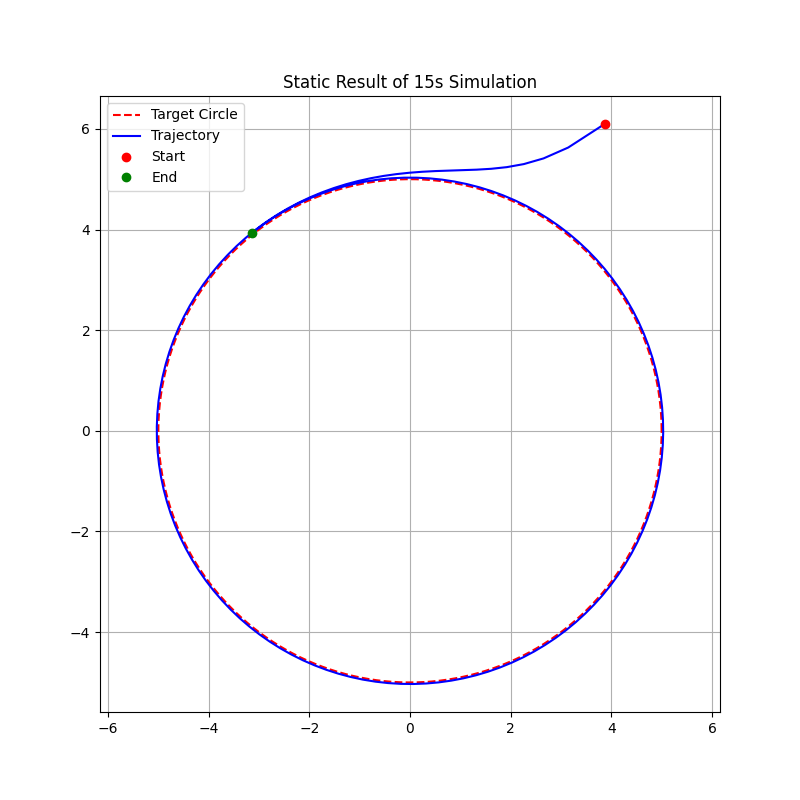
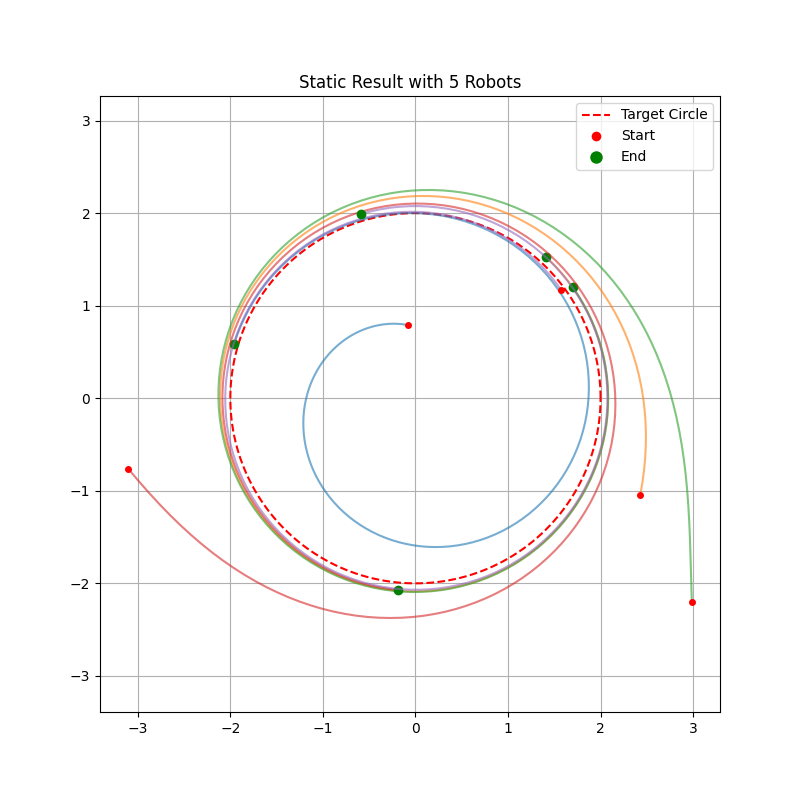
init

diff --git a/robot_sim.py b/robot_sim.py
@@ -12,32 +12,32 @@ k1 = 0.02
 k2 = 0.5
 
 # Simulation parameters
+N_ROBOTS = 5
 dt = 0.1
 total_time = 15
 num_steps = int(total_time / dt)
 
-# Initial position (random)
-# Random point in [-2R, 2R]
-x = (np.random.rand() - 0.5) * 4 * R
-y = (np.random.rand() - 0.5) * 4 * R
-pos = np.array([x, y])
+# Initial positions (random)
+# Random points in [-2R, 2R]
+pos = (np.random.rand(N_ROBOTS, 2) - 0.5) * 4 * R
 
-# History for plotting trajectory
+# History for plotting trajectory: shape (steps, N_ROBOTS, 2)
 history = [pos.copy()]
 
 def get_velocity(p):
-    px, py = p[0], p[1]
+    px, py = p[:, 0], p[:, 1]
     # e = (x-xc)^2 + (y-yc)^2 - R^2
     e = (px - xc)**2 + (py - yc)**2 - R2
     
     # n = gradient of (x-xc)^2 + (y-yc)^2 - R^2 = [2(x-xc), 2(y-yc)]
-    n = np.array([2 * (px - xc), 2 * (py - yc)])
+    n = np.column_stack([2 * (px - xc), 2 * (py - yc)])
     
     # t = (-y, x) relative to center
-    t = np.array([-(py - yc), (px - xc)])
+    t = np.column_stack([-(py - yc), (px - xc)])
     
     # v = -k1*e*n + k2*t
-    v = -k1 * e * n + k2 * t
+    # e[:, np.newaxis] to multiply each row of n by the corresponding error
+    v = -k1 * e[:, np.newaxis] * n + k2 * t
     return v
 
 # Pre-calculate simulation
@@ -54,7 +54,7 @@ ax.set_aspect('equal')
 ax.grid(True, linestyle='--', alpha=0.6)
 ax.set_xlim(-2.5*R, 2.5*R)
 ax.set_ylim(-2.5*R, 2.5*R)
-ax.set_title("Robot Circular Path Tracking Simulation")
+ax.set_title(f"Simulation with {N_ROBOTS} Robots")
 ax.set_xlabel("X")
 ax.set_ylabel("Y")
 
@@ -62,27 +62,29 @@ ax.set_ylabel("Y")
 circle_angles = np.linspace(0, 2*np.pi, 200)
 ax.plot(xc + R * np.cos(circle_angles), yc + R * np.sin(circle_angles), 'r--', label='Target Circle', alpha=0.5)
 
-# Robot and Trayectory plots
-line, = ax.plot([], [], 'b-', lw=1, alpha=0.7, label='Trajectory')
-robot_dot, = ax.plot([], [], 'go', markersize=10, label='Robot')
+# Robot and Trajectory plots (using lists for multiple robots)
+lines = [ax.plot([], [], '-', lw=1, alpha=0.6)[0] for _ in range(N_ROBOTS)]
+robot_dots, = ax.plot([], [], 'go', markersize=8, label='Robots')
 
 def init():
-    line.set_data([], [])
-    robot_dot.set_data([], [])
-    return line, robot_dot
+    for line in lines:
+        line.set_data([], [])
+    robot_dots.set_data([], [])
+    return lines + [robot_dots]
 
 def update(frame):
     current_history = history[:frame+1]
-    line.set_data(current_history[:, 0], current_history[:, 1])
-    robot_dot.set_data([history[frame, 0]], [history[frame, 1]])
-    return line, robot_dot
+    for i in range(N_ROBOTS):
+        lines[i].set_data(current_history[:, i, 0], current_history[:, i, 1])
+    
+    # Update robot dots (all at once)
+    robot_dots.set_data(history[frame, :, 0], history[frame, :, 1])
+    return lines + [robot_dots]
 
 ani = FuncAnimation(fig, update, frames=len(history), init_func=init, blit=True, interval=dt*1000)
-plt.legend()
+ax.legend(loc='upper right')
 
-# Save the animation as a video if possible, or just show it.
-# Since we are in an agentic environment, showing might not be direct.
-# I will save it as a gif/mp4 to provide to the user.
+# Save the animation
 try:
     print("Saving animation to robot_simulation.gif...")
     ani.save('robot_simulation.gif', writer='pillow', fps=int(1/dt))
@@ -90,17 +92,27 @@ try:
 except Exception as e:
     print(f"Could not save animation: {e}")
 
-# Also plot the final result statically
+# Static result plot
 plt.figure(figsize=(8, 8))
 plt.plot(xc + R * np.cos(circle_angles), yc + R * np.sin(circle_angles), 'r--', label='Target Circle')
-plt.plot(history[:, 0], history[:, 1], 'b-', label='Trajectory')
-plt.plot(history[0, 0], history[0, 1], 'ro', label='Start')
-plt.plot(history[-1, 0], history[-1, 1], 'go', label='End')
+for i in range(N_ROBOTS):
+    plt.plot(history[:, i, 0], history[:, i, 1], '-', alpha=0.6)
+    plt.plot(history[0, i, 0], history[0, i, 1], 'ro', markersize=4)
+    plt.plot(history[-1, i, 0], history[-1, i, 1], 'go', markersize=6)
+
+# Custom legend for markers
+from matplotlib.lines import Line2D
+legend_elements = [
+    Line2D([0], [0], color='r', linestyle='--', label='Target Circle'),
+    Line2D([0], [0], marker='o', color='w', label='Start', markerfacecolor='r', markersize=8),
+    Line2D([0], [0], marker='o', color='w', label='End', markerfacecolor='g', markersize=10),
+]
+plt.legend(handles=legend_elements)
+
 plt.axis('equal')
 plt.grid(True)
-plt.title("Static Result of 15s Simulation")
-plt.legend()
+plt.title(f"Static Result with {N_ROBOTS} Robots")
 plt.savefig('simulation_result.png')
 print("Static plot saved to simulation_result.png")
 
-plt.show() # This might not work in the environment, but good to have.
+plt.show()
